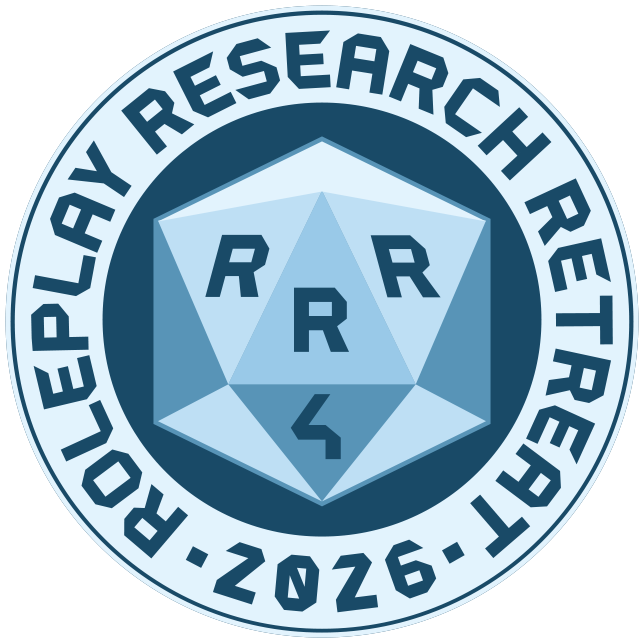
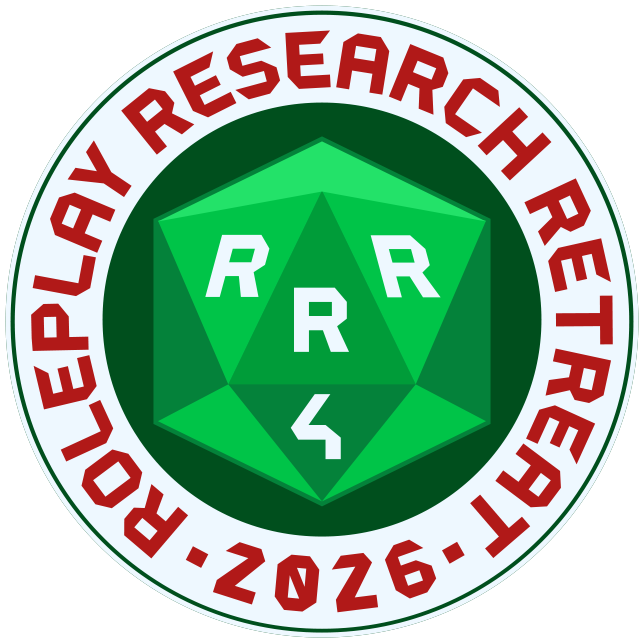
La Caniza

diff --git a/style.css b/style.css
@@ -1,19 +1,19 @@
 :root {
   /* Base palette */
-  --color-primary: #e2f3fd;
-  --color-secondary: #bedff4;
-  --color-accent: #DE802B;
+  --color-primary: #eef8ff;
+  --color-secondary: #c4e8ce;
+  --color-accent: #b11918;
 
-  --color-light: #194a67;
-  --color-muted: #5894b7;
-  --color-highlight: #DE802B;
+  --color-text: #004f1d;
+  --color-muted: #04823a;
+  --color-highlight: #b11918;
   --color-accent-dark: #b0611a;
 
   /* Semantic roles */
   --bg-main: var(--color-primary);
   --bg-surface: var(--color-secondary);
 
-  --text-main: var(--color-light);
+  --text-main: var(--color-text);
   --text-strong: var(--color-highlight);
 
   --border-main: var(--color-muted);
@@ -21,7 +21,7 @@
   --link: var(--color-accent);
   --link-hover: var(--color-accent-dark);
 
-  --header-link: var(--color-light);
+  --header-link: var(--color-text);
   --header-link-hover: var(--color-primary);
 }
 
@@ -78,14 +78,15 @@ strong {
 
 .container > .border {
   border: 5px solid var(--text-main);
-  border-radius: 15px;
+  background: var(--text-main);
+  border-radius: 17px;
   margin: 40px auto;
-  background: var(--bg-main);
   box-shadow: 0px 0px 5px 5px rgba(0,0,0,0.5);
 }
 
 .container > .border > .border-inner {
   border: 5px solid var(--border-main);
+  background: var(--bg-main);
   margin: 3px;
   box-shadow: 0 0 0 3px var(--link);
   border-radius: 9px;
@@ -94,7 +95,7 @@ strong {
 
 .header {
   padding-bottom: 0;
-  background: url(img/lisbon.jpg) no-repeat, var(--bg-main);
+  background: url(img/galicia.jpg) no-repeat, var(--bg-main);
   background-size: 100%;
   background-position-y: center;
   border-top-left-radius: 4px;

diff --git a/index.html b/index.html
@@ -18,7 +18,7 @@
 			    	<div class="logo"></div>
 			    	<div class="title">
 			    		<h1>4<span style="vertical-align: super; font-size: 0.5em;">th</span>Roleplay Research Retreat</h1>
-			    		<h2>Lisbon Portugal <span>24 - 28 August</span> 2026</h2>
+			    		<h2>La Cañiza Spain <span>24 - 28 August</span> 2026</h2>
 			    	</div>
 			    </section>
 
@@ -54,9 +54,9 @@
 
 				<section class="content" id="venue">
 					<h3>Venue</h3>
-					<p>The fourth event of the R3 is taking place in Lisbon, Portugal, one of Europe’s oldest and most culturally rich capitals. The event is organized by the <a href="https://www.ulusofona.pt/en/" target="_blank">Lusófona University</a>, the <a href="https://www.sdu.dk/en/forskning/sdumetaverselab" target="_blank">University of Southern Denmark</a>, and the <a href="http://um.edu.mt/" target="_blank">University of Malta</a>. Lisbon is a city shaped by centuries of maritime exploration, layered history, and contemporary creative industries, making it an ideal venue for R3. The city offers a distinctive blend of historic neighbourhoods such as Alfama and Bairro Alto, alongside modern cultural hubs along the Tagus riverfront. Key landmarks include the Belém Tower, the Jerónimos Monastery, and the Praça do Comércio, all reflecting Portugal’s architectural and historical legacy. Lisbon’s strong academic and research ecosystem, combined with its growing role in digital innovation and the creative arts, provides fertile ground for interdisciplinary collaboration and the educational ambitions of Roleplaying Games.</p>
+					<p>The fourth event of the R3 is taking place in La Cañiza, a small municipality in Galicia, northwestern Spain, near the Portuguese border. The event is organized by the <a href="https://www.ulusofona.pt/en/" target="_blank">Lusófona University</a>, the <a href="https://www.sdu.dk/en/forskning/sdumetaverselab" target="_blank">University of Southern Denmark</a>, and the <a href="http://um.edu.mt/" target="_blank">University of Malta</a>. La Cañiza is known for its historic pilgrimage traditions, local gastronomy, and nearby archaeological remains from prehistoric settlement. Its quiet rural environment and deep-rooted cultural identity provide a unique backdrop for interdisciplinary collaboration and the educational ambitions of R3.</p>
 
-					<p><a href="https://en.wikipedia.org/wiki/Lisbon" target="_blank" class="image-link"><img src="img/lisbon-street.jpg" /></a></p>
+					<p><a href="https://en.wikipedia.org/wiki/A_Caniza" target="_blank" class="image-link"><img src="img/finca.png" /></a></p>
 				</section>
 
 				<section class="content" id="agenda">
@@ -68,8 +68,8 @@
 
 				<section class="content" id="events">
 					<h3>Events</h3>
-					<h4>First Roleplay Research Winter Retreat</h4>
-					<p><a href="2025-winter/">The third event of the R3</a> is taking place in Galicia, Spain in the city of Pontevedra on 27 - 30 November 2025. The event is organized by the <a href="https://www.ulusofona.pt/en/" target="_blank">Lusófona University</a>, the <a href="https://www.sdu.dk/en/forskning/sdumetaverselab" target="_blank">University of Southern Denmark</a>, and the <a href="http://um.edu.mt/" target="_blank">University of Malta</a>. Also known as the "Good City", the city of Pontevedra is a city of art and history. It is an ideal venue for R3 because it blends medieval heritage and vibrant modern life, with awards for urban planning and urban safety. Highlights include its monumental religious buildings, the Burgo Bridge, the 18th century  Mugartegui Palace, and the nearby beaches of Praia de Cabeceira and Praia de Lourido. The city also hosts the Faculty of Fine Arts, which can offer synergies in the educational aspect of Roleplaying Games.</p>
+					<h4>Third Roleplay Research Retreat</h4>
+					<p><a href="2025-winter/">The third event of the R3</a> took place in Galicia, Spain in the city of Pontevedra on 27 - 30 November 2025. The event was organized by the <a href="https://www.ulusofona.pt/en/" target="_blank">Lusófona University</a>, the <a href="https://www.sdu.dk/en/forskning/sdumetaverselab" target="_blank">University of Southern Denmark</a>, and the <a href="http://um.edu.mt/" target="_blank">University of Malta</a>. Also known as the "Good City", the city of Pontevedra is a city of art and history. It is an ideal venue for R3 because it blends medieval heritage and vibrant modern life, with awards for urban planning and urban safety. Highlights include its monumental religious buildings, the Burgo Bridge, the 18th century  Mugartegui Palace, and the nearby beaches of Praia de Cabeceira and Praia de Lourido. The city also hosts the Faculty of Fine Arts, which can offer synergies in the educational aspect of Roleplaying Games.</p>
 					<p><a href="https://en.wikipedia.org/wiki/Pontevedra" target="_blank" class="image-link"><img src="img/ponteverda-hall.jpg" /></a></p>
 
 					<h4>Second Roleplay Research Retreat</h4>